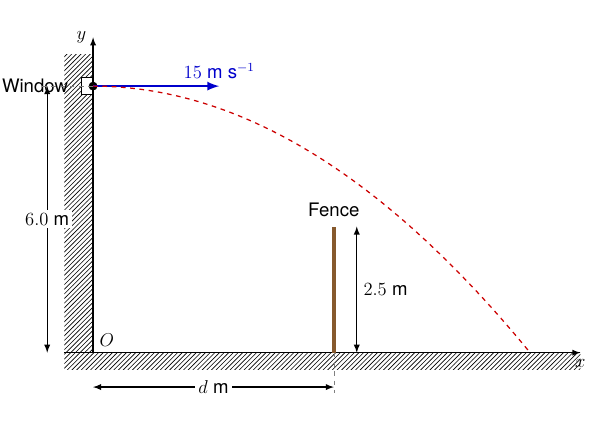
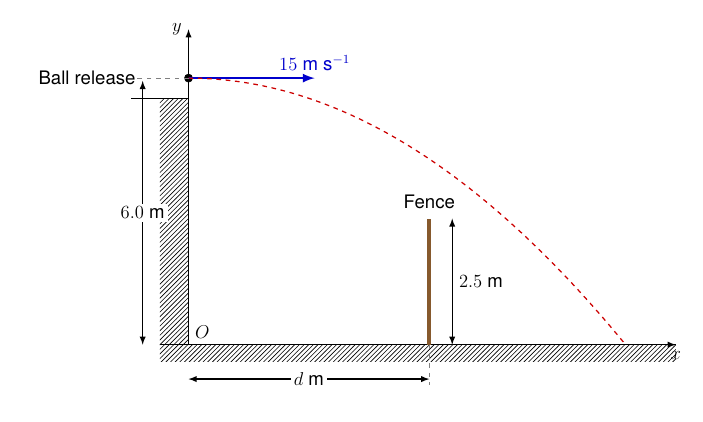
166

diff --git a/Mech_QB/Mech_4.js b/Mech_QB/Mech_4.js
@@ -623,11 +623,11 @@ window.ALEVEL_QUESTIONS = [
         "Range and clearance"
     ],
     "img": "images/Mechanics_pngs/012166.png",
-    "question": "The diagram shows a pebble projected horizontally with speed $15\\text{ m s}^{-1}$ from a window at height $6.0\\text{ m}$ above horizontal ground. The pebble clears a vertical fence of height $2.5\\text{ m}$ situated a horizontal distance of $d\\text{ m}$ from the window.<br><br>The origin $O$ is taken on the ground directly beneath the window, with the positive $x$-axis horizontal in the direction of projection and the positive $y$-axis vertically upwards.<br><em>[Take $g = 9.8\\text{ m s}^{-2}$.]</em><br><br><strong>(a)</strong> Find the time taken for the pebble to reach the ground.<br><br><strong>(b)</strong> Find the Cartesian equation of the trajectory of the pebble in the form $y = a - bx^2$, where $a$ and $b$ are constants to be determined.<br><br><strong>(c)</strong> Find the range of possible values of $d$ for which the pebble clears the fence.",
+    "question": "The diagram shows Peter throwing a tennis ball horizontally with speed $15\\text{ m s}^{-1}$ from the flat roof of a building, at a height of $6.0\\text{ m}$ above horizontal ground. The ball flies over a vertical perimeter wall of height $2.5\\text{ m}$ situated a horizontal distance of $d\\text{ m}$ from the building.<br><br>The origin $O$ is taken on the ground directly beneath the point of projection, with the positive $x$-axis horizontal in the direction of the throw and the positive $y$-axis vertically upwards.<br><em>[Take $g = 9.8\\text{ m s}^{-2}$.]</em><br><br><strong>(a)</strong> Find the time taken for the ball to reach the ground.<br><br><strong>(b)</strong> Find the Cartesian equation of the trajectory of the ball in the form $y = a - bx^2$, where $a$ and $b$ are constants to be determined.<br><br><strong>(c)</strong> Find the range of possible values of $d$ for which the ball clears the perimeter wall.",
     "steps": [
-        "<strong>(a) Time to reach the ground:</strong><br><br>Considering vertical motion downwards from the window ($s_y = 6.0\\text{ m}$, $u_y = 0$, $a_y = 9.8\\text{ m s}^{-2}$):\\begin{aligned} &s_y = u_y t + \\dfrac{1}{2}gt^2 \\cr &6.0 = 4.9t^2 \\cr &t^2 = \\dfrac{6.0}{4.9} \\cr &t = \\sqrt{\\dfrac{60}{49}} \\cr &t \\approx 1.11\\text{ s} \\end{aligned}",
+        "<strong>(a) Time to reach the ground:</strong><br><br>Considering vertical motion downwards from the roof ($s_y = 6.0\\text{ m}$, $u_y = 0$, $a_y = 9.8\\text{ m s}^{-2}$):\\begin{aligned} &s_y = u_y t + \\dfrac{1}{2}gt^2 \\cr &6.0 = 4.9t^2 \\cr &t^2 = \\dfrac{6.0}{4.9} \\cr &t = \\sqrt{\\dfrac{60}{49}} \\cr &t \\approx 1.11\\text{ s} \\end{aligned}",
         "<strong>(b) Cartesian equation of the trajectory:</strong><br><br>Horizontally:\\begin{aligned} x &= 15t \\cr t &= \\dfrac{x}{15} \\end{aligned}<br>Vertically, with origin on the ground:\\begin{aligned} y &= 6.0 - \\dfrac{1}{2}gt^2 \\cr &= 6.0 - 4.9\\left(\\dfrac{x}{15}\\right)^2 \\cr &= 6.0 - \\dfrac{49}{2250}x^2 \\end{aligned}",
-        "<strong>(c) Range of values of $d$:</strong><br><br>To clear the fence of height $2.5\\text{ m}$, we require $y > 2.5$ when $x = d$:\\begin{aligned} &6.0 - \\dfrac{49}{2250}d^2 > 2.5 \\cr &3.5 > \\dfrac{49}{2250}d^2 \\cr &d^2 < \\dfrac{3.5 \\times 2250}{49} \\cr &d^2 < \\dfrac{1125}{7} \\cr &d < 12.7\\text{ m} \\end{aligned}<br>Since distance must be strictly positive, $0 < d < 12.7\\text{ m}$.",
+        "<strong>(c) Range of values of $d$:</strong><br><br>To clear the perimeter wall of height $2.5\\text{ m}$, we require $y > 2.5$ when $x = d$:\\begin{aligned} &6.0 - \\dfrac{49}{2250}d^2 > 2.5 \\cr &3.5 > \\dfrac{49}{2250}d^2 \\cr &d^2 < \\dfrac{3.5 \\times 2250}{49} \\cr &d^2 < \\dfrac{1125}{7} \\cr &d < 12.7\\text{ m} \\end{aligned}<br>Since distance must be strictly positive, $0 < d < 12.7\\text{ m}$.",
         "Final Answer: (a) $1.11\\text{ s}$, (b) $y = 6 - \\dfrac{49}{2250}x^2$, (c) $0 < d < 12.7\\text{ m}$"
     ],
     "pi_options": [
